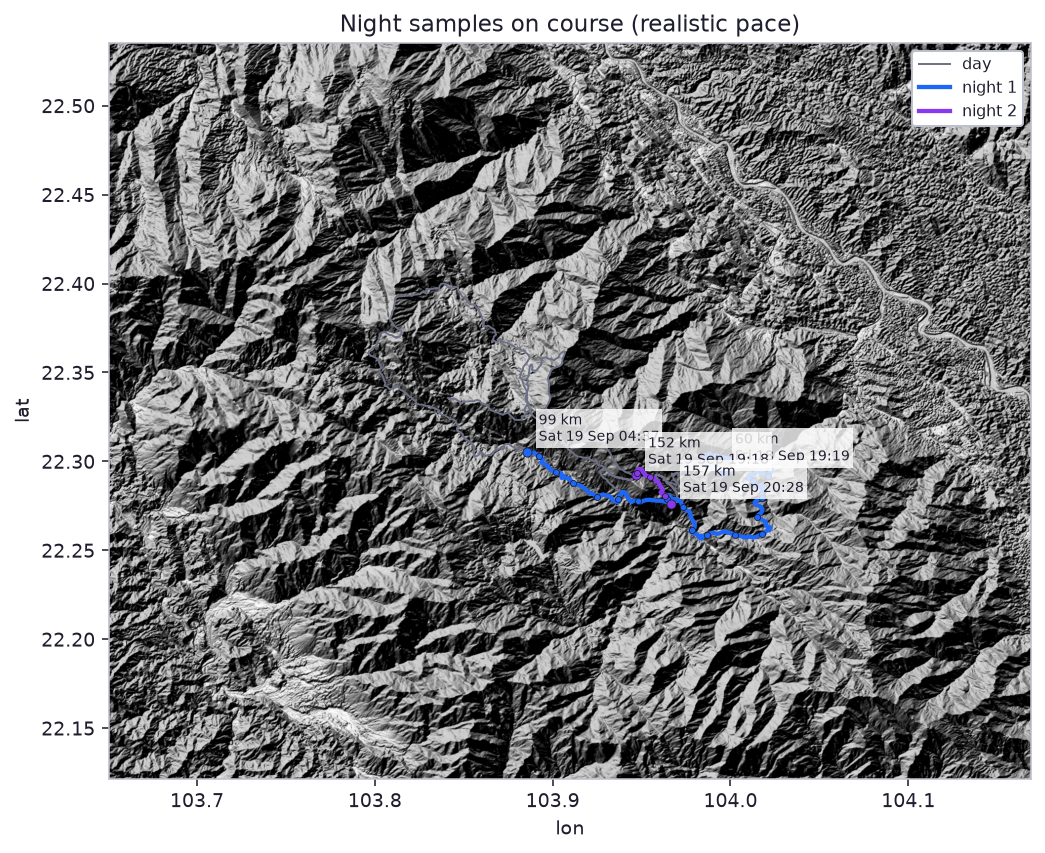
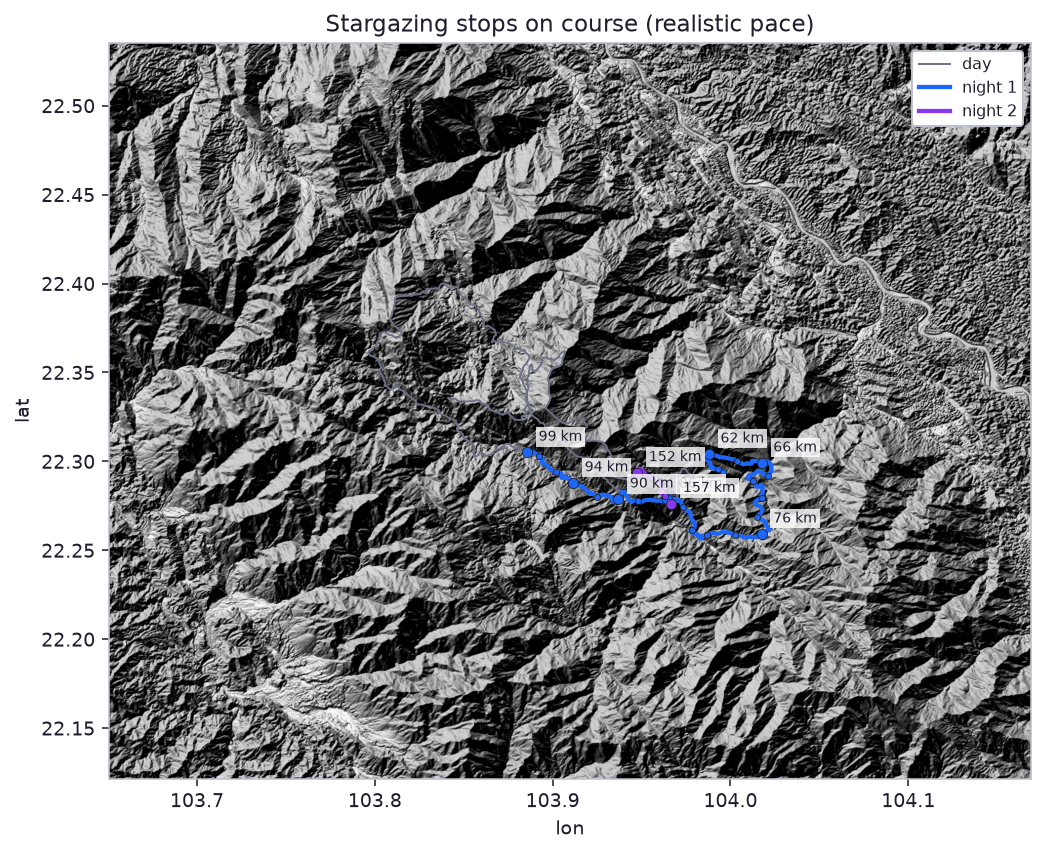
feat: mark each stop on the course map
Stop pages only had a sky disc and look-ahead, so a km card had no
where-you-are. The ringed marker is this stop on the whole course.

Changed region(s): [[0.49, 0.4572, 0.8268, 0.6401], [0.3062, 0.0, 0.7656, 0.061]]

diff --git a/docs/night-2.html b/docs/night-2.html
@@ -18,6 +18,10 @@
 <p>Sat 19 Sep 19:18 → Sun 20 Sep 04:37 (elapsed 35h 19m–44h 38m, km 152–157 at predicted pace)</p>
 <p class='lede'><a href="night-2-sky.html#moon">Moon</a> first quarter, 56% lit, 38° S (195°). Bright enough to wash out the Milky Way and faint constellations. Milky Way centre 35° S (202°). Overhead: <a href="night-2-iau.html#aquila">Aquila</a>, <a href="night-2-iau.html#cygnus">Cygnus</a>, <a href="night-2-iau.html#lyra">Lyra</a>, <a href="night-2-iau.html#ophiuchus">Ophiuchus</a>.</p>
 <figure>
+  <img src="plots/night2-s23-course.png" alt="Sat 19 Sep 19:21 · elapsed 35h 22m · km 152.0 · 1387 m on the course" loading="lazy" />
+  <figcaption>Whole course at realistic pace. The ringed marker is this stop.</figcaption>
+</figure>
+<figure>
   <img src="plots/night2-s23.png" alt="Sat 19 Sep 19:21 · elapsed 35h 22m · km 152.0 · 1387 m" loading="lazy" />
 </figure>
 <figure>

diff --git a/docs/night-1-km90.html b/docs/night-1-km90.html
@@ -18,6 +18,10 @@
   <main>
 <p class='lede'><a href="night-1-sky.html#moon">Moon</a> first quarter, 50% lit, below the terrain horizon. Milky Way centre is below the local horizon. Overhead: <a href="night-1-iau.html#andromeda">Andromeda</a>, <a href="night-1-iau.html#aries">Aries</a>, <a href="night-1-iau.html#cetus">Cetus</a>, <a href="night-1-iau.html#pegasus">Pegasus</a>, <a href="night-1-iau.html#perseus">Perseus</a>, <a href="night-1-iau.html#pisces">Pisces</a>.</p>
 <figure>
+  <img src="plots/night1-s16-course.png" alt="Sat 19 Sep 02:23 · elapsed 18h 24m · km 90.0 · 889 m on the course" loading="lazy" />
+  <figcaption>Whole course at realistic pace. The ringed marker is this stop.</figcaption>
+</figure>
+<figure>
   <img src="plots/night1-s16.png" alt="Sat 19 Sep 02:23 · elapsed 18h 24m · km 90.0 · 889 m" loading="lazy" />
 </figure>
 <figure>

diff --git a/docs/night-2-km152.html b/docs/night-2-km152.html
@@ -18,6 +18,10 @@
   <main>
 <p class='lede'><a href="night-2-sky.html#moon">Moon</a> first quarter, 56% lit, 38° S (195°). Bright enough to wash out the Milky Way and faint constellations. Milky Way centre 35° S (202°). Overhead: <a href="night-2-iau.html#aquila">Aquila</a>, <a href="night-2-iau.html#cygnus">Cygnus</a>, <a href="night-2-iau.html#lyra">Lyra</a>, <a href="night-2-iau.html#ophiuchus">Ophiuchus</a>.</p>
 <figure>
+  <img src="plots/night2-s23-course.png" alt="Sat 19 Sep 19:21 · elapsed 35h 22m · km 152.0 · 1387 m on the course" loading="lazy" />
+  <figcaption>Whole course at realistic pace. The ringed marker is this stop.</figcaption>
+</figure>
+<figure>
   <img src="plots/night2-s23.png" alt="Sat 19 Sep 19:21 · elapsed 35h 22m · km 152.0 · 1387 m" loading="lazy" />
 </figure>
 <figure>

diff --git a/docs/night-1-km94.html b/docs/night-1-km94.html
@@ -18,6 +18,10 @@
   <main>
 <p class='lede'><a href="night-1-sky.html#moon">Moon</a> first quarter, 50% lit, below the terrain horizon. Milky Way centre is below the local horizon. Overhead: <a href="night-1-iau.html#aries">Aries</a>, <a href="night-1-iau.html#cetus">Cetus</a>, <a href="night-1-iau.html#perseus">Perseus</a>, <a href="night-1-iau.html#pisces">Pisces</a>, <a href="night-1-iau.html#taurus">Taurus</a>.</p>
 <figure>
+  <img src="plots/night1-s18-course.png" alt="Sat 19 Sep 03:28 · elapsed 19h 29m · km 94.0 · 1036 m on the course" loading="lazy" />
+  <figcaption>Whole course at realistic pace. The ringed marker is this stop.</figcaption>
+</figure>
+<figure>
   <img src="plots/night1-s18.png" alt="Sat 19 Sep 03:28 · elapsed 19h 29m · km 94.0 · 1036 m" loading="lazy" />
 </figure>
 <figure>

diff --git a/docs/night-2-km157.html b/docs/night-2-km157.html
@@ -18,6 +18,10 @@
   <main>
 <p class='lede'><a href="night-2-sky.html#moon">Moon</a> first quarter, 57% lit, 32° SW (211°). Bright enough to wash out the Milky Way and faint constellations. Milky Way centre 27° SW (217°). Overhead: <a href="night-2-iau.html#aquila">Aquila</a>, <a href="night-2-iau.html#cygnus">Cygnus</a>, <a href="night-2-iau.html#lyra">Lyra</a>, <a href="night-2-iau.html#pegasus">Pegasus</a>.</p>
 <figure>
+  <img src="plots/night2-s26-course.png" alt="Sat 19 Sep 20:28 · elapsed 36h 28m · km 156.8 · 948 m on the course" loading="lazy" />
+  <figcaption>Whole course at realistic pace. The ringed marker is this stop.</figcaption>
+</figure>
+<figure>
   <img src="plots/night2-s26.png" alt="Sat 19 Sep 20:28 · elapsed 36h 28m · km 156.8 · 948 m" loading="lazy" />
 </figure>
 <figure>

diff --git a/docs/night-1-km99.html b/docs/night-1-km99.html
@@ -18,6 +18,10 @@
   <main>
 <p class='lede'><a href="night-1-sky.html#moon">Moon</a> first quarter, 50% lit, below the terrain horizon. Milky Way centre is below the local horizon. Overhead: <a href="night-1-iau.html#auriga">Auriga</a>, <a href="night-1-iau.html#cetus">Cetus</a>, <a href="night-1-iau.html#orion">Orion</a>, <a href="night-1-iau.html#perseus">Perseus</a>, <a href="night-1-iau.html#taurus">Taurus</a>.</p>
 <figure>
+  <img src="plots/night1-s21-course.png" alt="Sat 19 Sep 04:37 · elapsed 20h 37m · km 98.9 · 983 m on the course" loading="lazy" />
+  <figcaption>Whole course at realistic pace. The ringed marker is this stop.</figcaption>
+</figure>
+<figure>
   <img src="plots/night1-s21.png" alt="Sat 19 Sep 04:37 · elapsed 20h 37m · km 98.9 · 983 m" loading="lazy" />
 </figure>
 <figure>

diff --git a/docs/night-1.html b/docs/night-1.html
@@ -18,6 +18,10 @@
 <p>Fri 18 Sep 19:19 → Sat 19 Sep 04:37 (elapsed 11h 20m–20h 37m, km 60–99 at predicted pace)</p>
 <p class='lede'><a href="night-1-sky.html#moon">Moon</a> first quarter, 47% lit, 29° SW (216°). Milky Way centre 31° SW (210°). Overhead: <a href="night-1-iau.html#aquila">Aquila</a>, <a href="night-1-iau.html#cygnus">Cygnus</a>, <a href="night-1-iau.html#lyra">Lyra</a>.</p>
 <figure>
+  <img src="plots/night1-s2-course.png" alt="Fri 18 Sep 19:58 · elapsed 11h 58m · km 62.0 · 1027 m on the course" loading="lazy" />
+  <figcaption>Whole course at realistic pace. The ringed marker is this stop.</figcaption>
+</figure>
+<figure>
   <img src="plots/night1-s2.png" alt="Fri 18 Sep 19:58 · elapsed 11h 58m · km 62.0 · 1027 m" loading="lazy" />
 </figure>
 <figure>

diff --git a/docs/night-1-km86.html b/docs/night-1-km86.html
@@ -18,6 +18,10 @@
   <main>
 <p class='lede'><a href="night-1-sky.html#moon">Moon</a> first quarter, 49% lit, below the terrain horizon. Milky Way centre is below the local horizon. Overhead: <a href="night-1-iau.html#andromeda">Andromeda</a>, <a href="night-1-iau.html#aries">Aries</a>, <a href="night-1-iau.html#pegasus">Pegasus</a>, <a href="night-1-iau.html#pisces">Pisces</a>.</p>
 <figure>
+  <img src="plots/night1-s14-course.png" alt="Sat 19 Sep 01:31 · elapsed 17h 31m · km 86.0 · 958 m on the course" loading="lazy" />
+  <figcaption>Whole course at realistic pace. The ringed marker is this stop.</figcaption>
+</figure>
+<figure>
   <img src="plots/night1-s14.png" alt="Sat 19 Sep 01:31 · elapsed 17h 31m · km 86.0 · 958 m" loading="lazy" />
 </figure>
 <figure>

diff --git a/docs/night-1-km66.html b/docs/night-1-km66.html
@@ -18,6 +18,10 @@
   <main>
 <p class='lede'><a href="night-1-sky.html#moon">Moon</a> first quarter, 47% lit, 23° SW (222°). Milky Way centre 27° SW (218°). Overhead: <a href="night-1-iau.html#aquila">Aquila</a>, <a href="night-1-iau.html#cygnus">Cygnus</a>, <a href="night-1-iau.html#lyra">Lyra</a>, <a href="night-1-iau.html#pegasus">Pegasus</a>.</p>
 <figure>
+  <img src="plots/night1-s4-course.png" alt="Fri 18 Sep 20:36 · elapsed 12h 36m · km 66.0 · 412 m on the course" loading="lazy" />
+  <figcaption>Whole course at realistic pace. The ringed marker is this stop.</figcaption>
+</figure>
+<figure>
   <img src="plots/night1-s4.png" alt="Fri 18 Sep 20:36 · elapsed 12h 36m · km 66.0 · 412 m" loading="lazy" />
 </figure>
 <figure>

diff --git a/docs/night-1-km62.html b/docs/night-1-km62.html
@@ -18,6 +18,10 @@
   <main>
 <p class='lede'><a href="night-1-sky.html#moon">Moon</a> first quarter, 47% lit, 29° SW (216°). Milky Way centre 31° SW (210°). Overhead: <a href="night-1-iau.html#aquila">Aquila</a>, <a href="night-1-iau.html#cygnus">Cygnus</a>, <a href="night-1-iau.html#lyra">Lyra</a>.</p>
 <figure>
+  <img src="plots/night1-s2-course.png" alt="Fri 18 Sep 19:58 · elapsed 11h 58m · km 62.0 · 1027 m on the course" loading="lazy" />
+  <figcaption>Whole course at realistic pace. The ringed marker is this stop.</figcaption>
+</figure>
+<figure>
   <img src="plots/night1-s2.png" alt="Fri 18 Sep 19:58 · elapsed 11h 58m · km 62.0 · 1027 m" loading="lazy" />
 </figure>
 <figure>

diff --git a/docs/night-1-km76.html b/docs/night-1-km76.html
@@ -18,6 +18,10 @@
   <main>
 <p class='lede'><a href="night-1-sky.html#moon">Moon</a> first quarter, 48% lit, below the terrain horizon. Milky Way centre is below the local horizon. Overhead: <a href="night-1-iau.html#andromeda">Andromeda</a>, <a href="night-1-iau.html#pegasus">Pegasus</a>.</p>
 <figure>
+  <img src="plots/night1-s9-course.png" alt="Fri 18 Sep 23:04 · elapsed 15h 05m · km 76.0 · 819 m on the course" loading="lazy" />
+  <figcaption>Whole course at realistic pace. The ringed marker is this stop.</figcaption>
+</figure>
+<figure>
   <img src="plots/night1-s9.png" alt="Fri 18 Sep 23:04 · elapsed 15h 05m · km 76.0 · 819 m" loading="lazy" />
 </figure>
 <figure>

diff --git a/docs/course.html b/docs/course.html
@@ -143,7 +143,7 @@
 </table></div>
 </details>
 <figure>
-  <img src="plots/course.png" alt="Course with night samples" loading="eager" />
+  <img src="plots/course.png" alt="Course with stargazing stops" loading="eager" />
 </figure>
 <figure>
   <img src="plots/profile.png" alt="Elevation profile with night windows" loading="lazy" />
